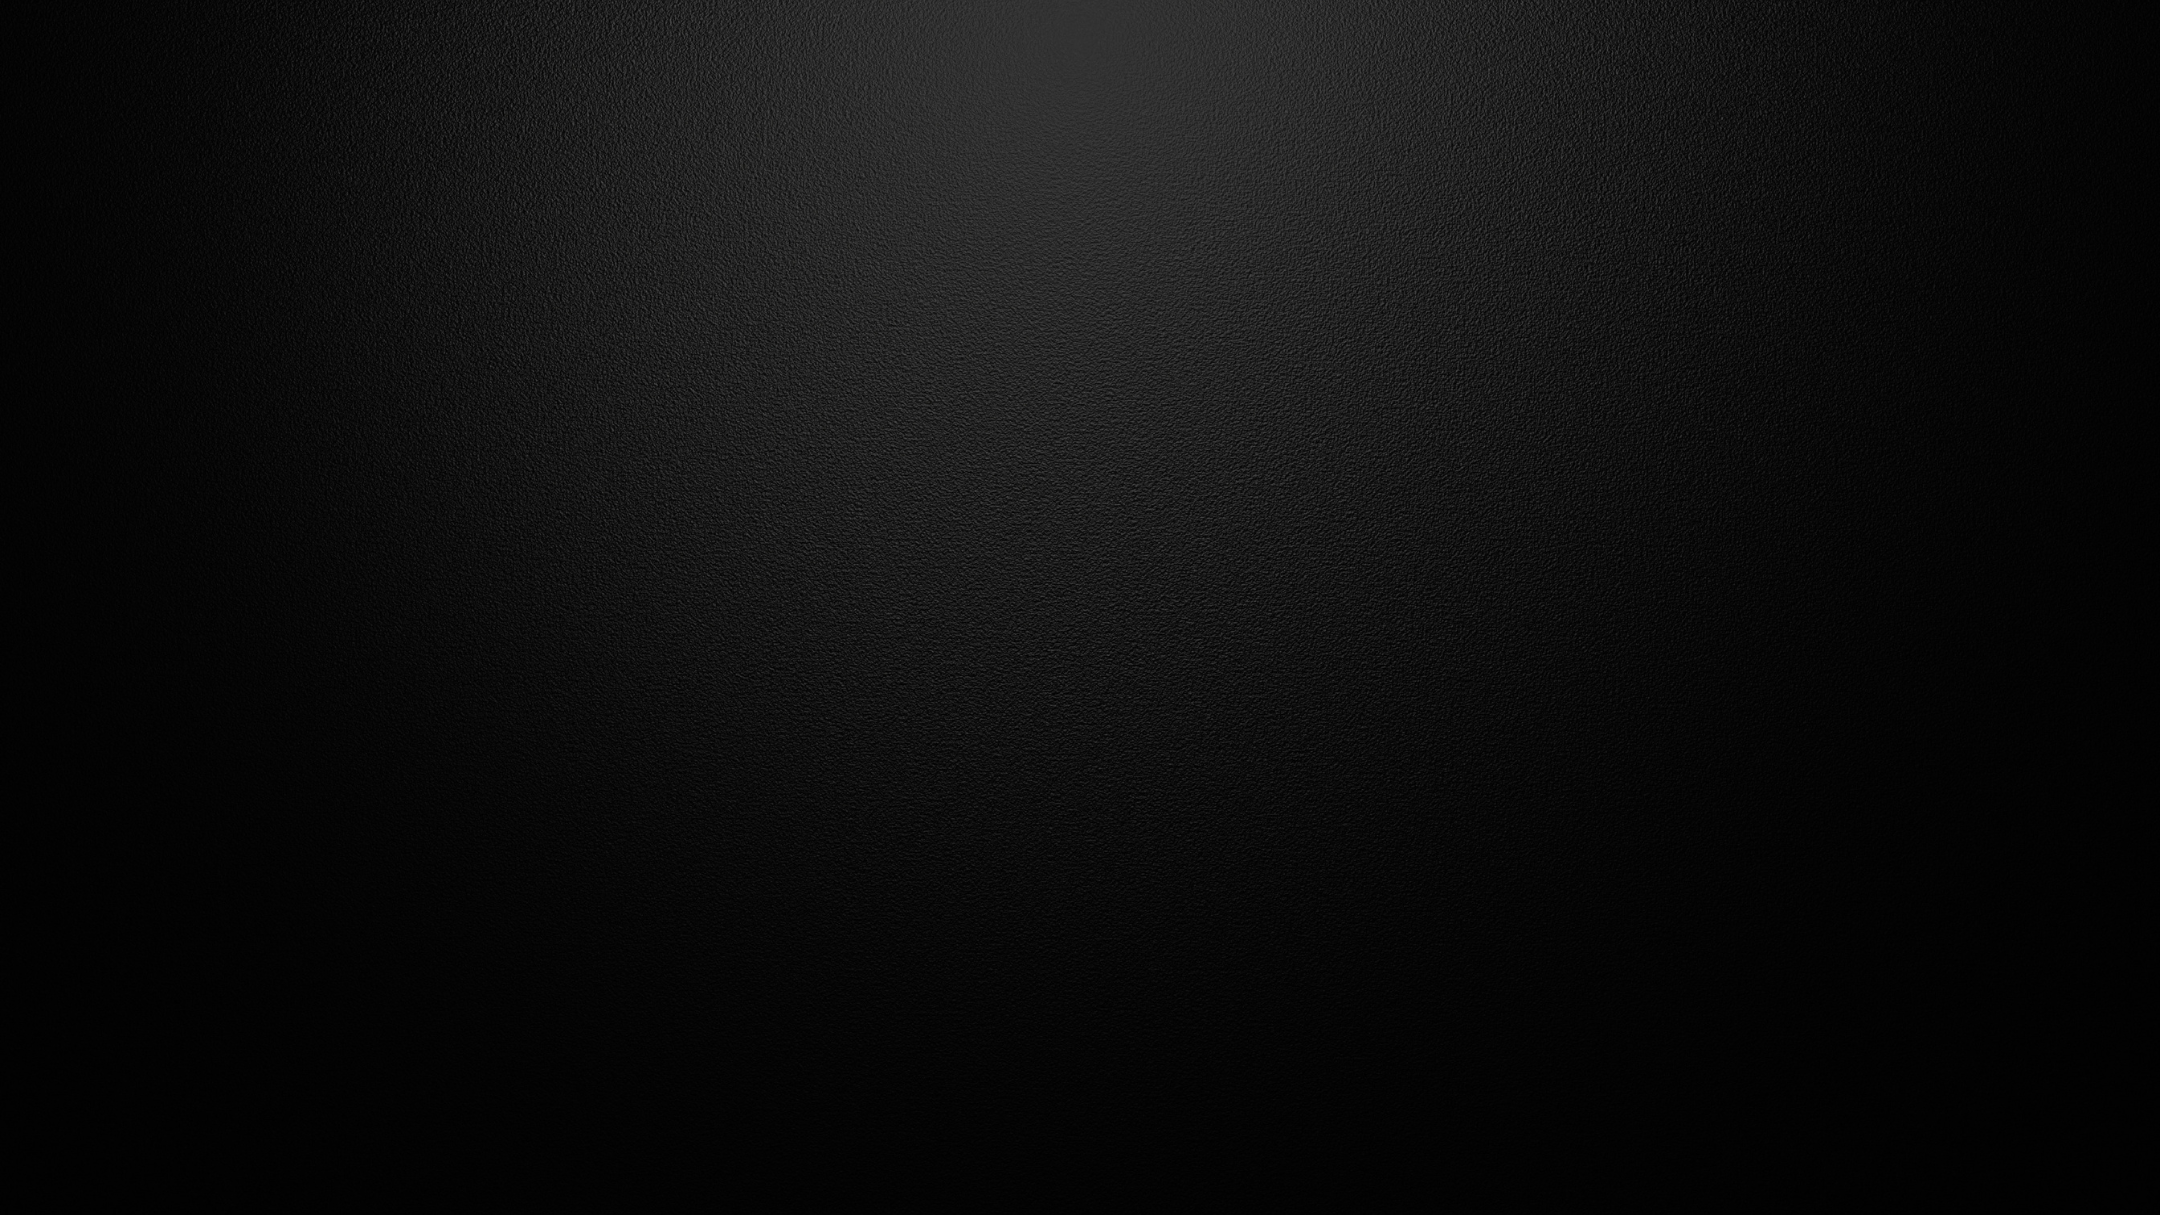
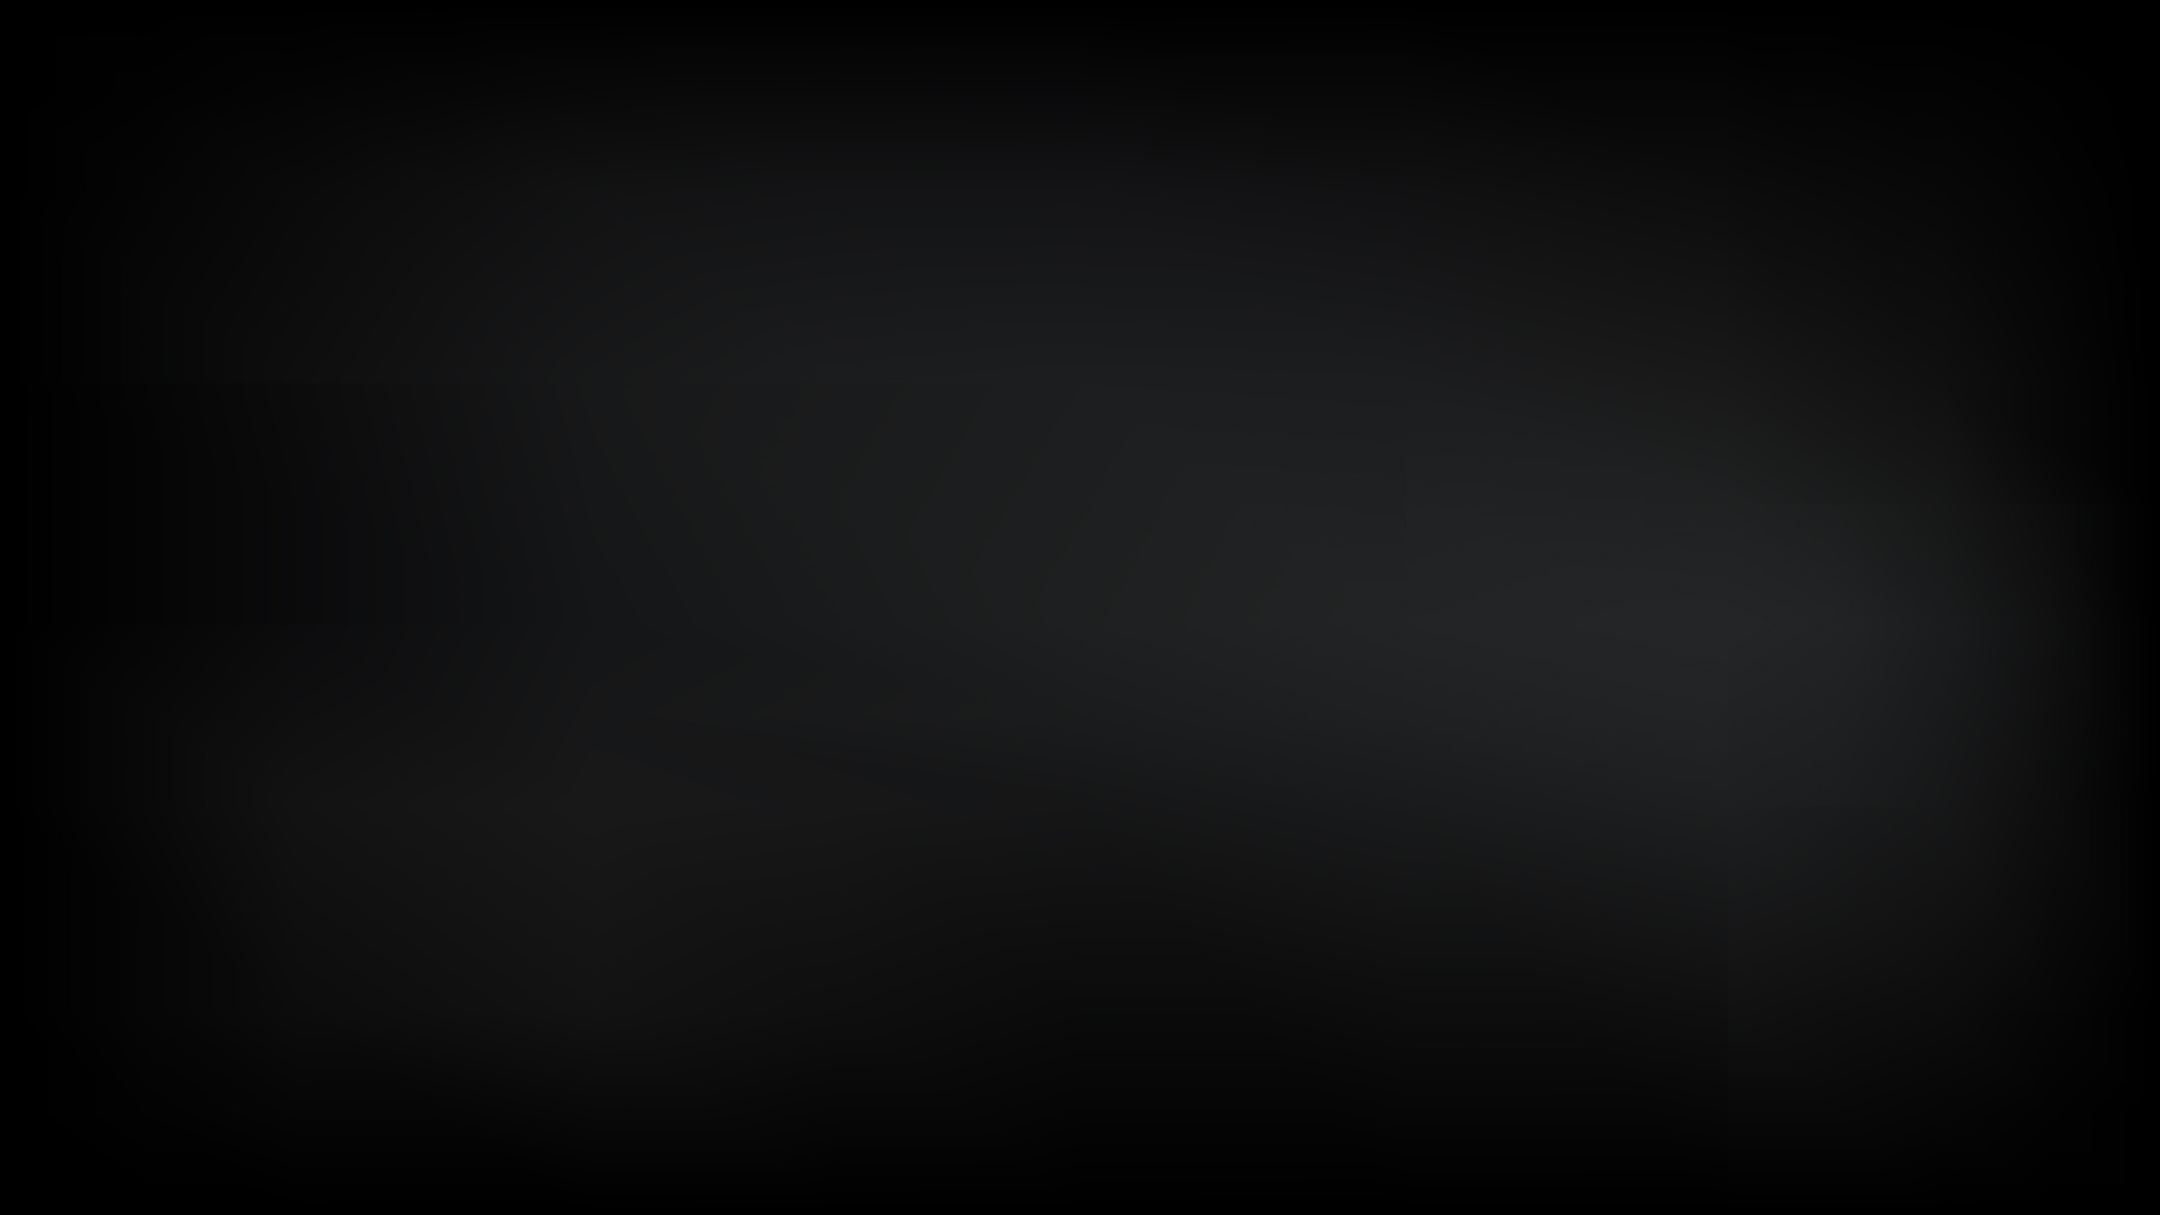
Footer armado, faltan detalles

Changed region(s): [[0.1551, 0.0, 0.8375, 0.3045], [0.5273, 0.3654, 0.9306, 0.7309]]

diff --git a/index.html b/index.html
@@ -18,8 +18,8 @@
         </div>
         <div class="nav-container-links">
             <a href="#quienesSomos">Quienes Somos</a>
-            <a href="#">Servicios</a>
-            <a href="#">Proyectos</a>
+            <a href="#servicios">Servicios</a>
+            <a href="#proyectos">Proyectos</a>
             <a href="#">Contacto</a>
         </div>
     </nav>
@@ -108,40 +108,66 @@
         <div class="caja-servicios" id="cajaServicios">
             <div class="caja uno">
                 <div class="front uno">
-                    <img src="assets/imagenes/body/section_2.2/CREACION_DE_CONTENIDOS.png" alt="">
-                    <h3>Creacion de Contenidos</h3>
+                    <img src="assets/imagenes/body/section_2.2/CREACION_DE_CONTENIDOS.png" alt="" id="cardImagen">
+                    <h3>Creación de Contenidos</h3>
                 </div>
-                <div class="back uno"></div>
+                <div class="back uno">
+                    <p>Completo desarrollo de contenidos siguiendo la línea
+                        editorial del cliente. Los archivos de las acciones son entregados en alta calidad y
+                        resolución para ser difundidos en redes sociales.</p>
+                </div>
             </div>
             <div class="caja dos">
                 <div class="front dos">
-                    <img src="assets/imagenes/body/section_2.2/EXPERIENCIA_DE_MARCA.png" alt="">
+                    <img src="assets/imagenes/body/section_2.2/EXPERIENCIA_DE_MARCA.png" alt="" id="cardImagen">
                     <h3>Experiencia de Marca</h3>
                 </div>
-                <div class="back dos"></div>
+                <div class="back dos">
+                    <p>Llevamos a cabo acciones directas para el público objetivo del
+                        cliente, contadas en “primera persona” por rostros e influencers, con el objetivo de
+                        generar más seguidores y haciendo crecer los likes en las redes sociales.</p>
+                </div>
             </div>
             <div class="caja tres">
                 <div class="front tres">
-                    <img src="assets/imagenes/body/section_2.2/GESTION_DE_PUBLICIDAD_PAGADA.png" alt="">
-                    <h3>Gestion de Publicidad Pagada</h3>
+                    <img src="assets/imagenes/body/section_2.2/GESTION_DE_PUBLICIDAD_PAGADA.png" alt="" id="cardImagen">
+                    <h3>Gestión de Publicidad Pagada</h3>
                 </div>
-                <div class="back tres"></div>
+                <div class="back tres">
+                    <p>Gestionamos, como agencia, campañas publicitarias
+                        pagadas con el objetivo de lograr mejores valores (al valor comercial de la publicidad,
+                        podemos lograr importantes descuentos en las tarifas) con acciones extras para
+                        potenciar la publicidad contratada.</p>
+                </div>
             </div>
             <div class="caja cuatro">
                 <div class="front cuatro">
-                    <img src="assets/imagenes/body/section_2.2/GESTION_DIRECTA.png" alt="">
+                    <img src="assets/imagenes/body/section_2.2/GESTION_DIRECTA.png" alt="" id="cardImagen">
                     <h3>Gestión Directa</h3>
                 </div>
-                <div class="back cuatro"></div>
+                <div class="back cuatro">
+                    <p>Somos el nexo entre los encargados de los medios informativos y el
+                        cliente, comunicándonos con directores, editores, periodistas e influencers, dando a
+                        conocer sus productos y servicios.</p>
+                </div>
             </div>
             <div class="caja cinco">
                 <div class="front cinco">
-                    <img src="assets/imagenes/body/section_2.2/PUBLICACIONES_EN_MEDIOS.png" alt="">
-                    <h3>Publicaciones en medios</h3>
+                    <img src="assets/imagenes/body/section_2.2/PUBLICACIONES_EN_MEDIOS.png" alt="" id="cardImagen">
+                    <h3>Publicaciones en Medios</h3>
                 </div>
-                <div class="back cinco"></div>
+                <div class="back cinco">
+                    <p>Realizamos comunicados de prensa dirigidos a las
+                        campañas acordadas, orientados a posocionarse en diversos medios masivos con
+                        información actualizada, atractiva y de primer nivel.</p>
+                </div>
             </div>
         </div>
+    </div>
+</section>
+<section class="proyectos" id="proyectos">
+    <div class="container-proyectos">
+        
     </div>
 </section>
 <section class="contacto" id="contacto"></section>
@@ -151,7 +177,35 @@
 <!-- ============== -->
 
 <footer>
-
+    <div class="container-footer" id="containerFooter">
+        <div class="caja-footer">
+            <div class="footer footerLeft"></div>
+            <div class="footer footerCenter">
+                <img src="assets/imagenes/footer/logo_principal_spysh.png" alt="" class="logoPrincipalSpysh">
+                <div class="logos-footer" id="logosFooter">
+                    
+                    <a href="https://www.facebook.com/spyshcomunicaciones" target="_blank">
+                        <img src="assets/imagenes/iconos/icono_facebook.png" alt="">
+                    </a>
+                    <a href="mailto:agencia.spyshcomunicaciones@gmail.com">
+                        <img src="assets/imagenes/iconos/icono_correo.png" alt="">
+                    </a>
+                    <a href="https://www.instagram.com/spyshcomunicaciones/" target="_blank">
+                        <img src="assets/imagenes/iconos/icono_instagram.png" alt="">
+                    </a>
+                    <a href="">
+                        <img src="assets/imagenes/iconos/icono_telefono.png" alt="">
+                    </a>
+                    
+                </div>
+            </div>
+            <div class="footer footerRight"></div>
+        </div>
+        <div class="caja-under-footer">
+            <p>@2026 Spysh Comunicaciones spa.
+            <p>Desarrollado por Benjamin Tapia / +56986614003</p>
+        </div>
+    </div>
 </footer>
 
 <!-- Menu -->

diff --git a/css/section2.css b/css/section2.css
@@ -2,7 +2,7 @@
     height: 100vh;
     display: flex;
     flex-direction: column;
-    justify-content: space-between;
+    justify-content: center;
     align-items: center;
     background-image: url(../assets/imagenes/body/section_1/fondo_vista_principal.png);
     background-position: center;
@@ -12,6 +12,7 @@
     margin: 0;
     padding: 0;
     color: var(--color-secondary);
+    text-shadow: 2px 2px 5px black;
 }
 .caja-servicios{
     width: 70%;
@@ -19,7 +20,7 @@
     display: grid;
     grid-template-columns: repeat(6,1fr);
     grid-template-rows: repeat(2,1fr);
-    gap: 20px;
+    gap: 30px;
     padding-bottom: 2%;
 }
 .caja{
@@ -28,6 +29,9 @@
     flex-direction: column;
     justify-content: center;
     align-items: center;
+    position: relative;
+    box-shadow: -10px 10px 10px rgba(15, 15, 15, 0.929);
+    border:2px solid rgba(255, 255, 255, 0.096);
 }
 .caja.uno{
     grid-column: 1/3;
@@ -45,32 +49,60 @@
     grid-column: 4/6;
 }
 .front{
-    background: linear-gradient(
-    360deg,
-    #e12587 1%,
-    #000000 2%
-);
+    
+    background-color: rgb(43, 42, 42);
+    text-shadow: 1px 1px 2px rgba(0, 0, 0, 0.363);
+    color: white;
     display: flex;
     flex-direction: column;
     align-items: center;
-    width: 97%;
-    height: 97%;
-    border-radius: 5px;
-    box-shadow: 2px 2px 10px rgba(0, 0, 0, 0.929);
-    transition: 
-        width .3s ease, 
-        height .3s ease,
-        box-shadow .3s ease;
-}
-.front:hover{
+    justify-content: space-between;
     width: 100%;
     height: 100%;
-    box-shadow: 0px 0px 20px 5px rgba(31, 31, 31, 0.929);
-
+    border-radius: 5px;
+    transition: 
+    width .3s ease, 
+    height .3s ease,
+    box-shadow .3s ease,
+    transform .3s ease;
 }
+
 .front img{
     width: 100%;
 }
 .front h3{
-    color:var(--color-secondary)
+    color:var(--color-secondary);
+    text-shadow: 2px 2px 5px black;
+    text-align: center;
+    position: absolute;
+    bottom: 15px;
+}
+.back{
+    display: flex;
+    flex-direction: column;
+    justify-content: center;
+    align-items: center;
+    border:2px solid rgba(255, 255, 255, 0.315);
+    text-shadow: 2px 2px 5px black;
+    position: absolute;
+    opacity:0;
+    height: 100%;
+    background-color: var(--color-primary);
+    border-radius: 5px ;
+    transform: translateY(-10px);
+    transition:
+    opacity .4s ease,
+    transform .4s ease;
+    
+}
+.back p{
+    font-size: small;
+    text-align: center;
+    color: white;
+    width: 80%;
+}
+.back:hover{
+    opacity:1;
+    transform: translateY(0px);
+    
 }

diff --git a/css/footer.css b/css/footer.css
@@ -1,0 +1,60 @@
+.container-footer{
+    height: 70vh;
+    background-image: url(../assets/imagenes/footer/fondo_footer_1.png);
+    background-size: cover;
+    background-repeat: no-repeat;
+    position: relative;
+    display: flex;
+    justify-content: center;
+}
+.caja-footer{
+    height: 70vh;
+    width: 100%;
+    display: flex;
+    justify-content: center;
+    backdrop-filter: blur(3px);
+}
+.footer{
+    width: 33%;
+}
+.footerCenter{
+    display: flex;
+    flex-direction: column;
+    justify-content: center;
+    align-items: center;
+    text-align: center;
+    position: absolute;
+    bottom: 30%;
+    
+}
+.logoPrincipalSpysh{
+    width: 80%;
+}
+.logos-footer{
+    display: flex;
+    flex-direction: row;
+}
+.logos-footer a{
+    width: 50%;
+}
+.logos-footer img{
+    width: 40%;
+    transform: scale(1);
+    box-shadow: 1px 1px 5px rgba(0, 0, 0, 0.425);
+    border-radius: 50%;
+    transition: transform .3s ease;
+}
+.logos-footer img:hover{
+    transform: scale(1.2);
+    
+}
+.caja-under-footer{
+    position:absolute;
+    color: var(--color-secondary);
+    bottom: 2px;
+    padding: 0;
+    margin: 0;
+    font-size: smaller;
+    text-align: center;
+    height: 25%;
+}

diff --git a/css/section.css b/css/section.css
@@ -11,8 +11,9 @@ section{
 /*=================*/
 
 .vista-principal{
-    background-image: url(../assets/imagenes/body/section_1/fondo_vista_principal_y_sello_spysh.png);
+    background-image: url(../assets/imagenes/body/section_1/fondo_vista_principal_spysh_3.png);
     background-position: center;
+    background-size: cover;
     background-repeat: no-repeat;
 }
 
@@ -22,8 +23,7 @@ section{
 
 
 .quienes-somos{
-    background-image: url(../assets/imagenes/body/section_2/fondo_vista_principal_invertida.png);
-    background-position: center;
+    background-image: url(../assets/imagenes/body/section_1/fondo_vista_principal_2.png);
     background-repeat: no-repeat;
     background-size: cover;
     position:relative;

diff --git a/css/navbar.css b/css/navbar.css
@@ -6,7 +6,7 @@ nav{
     transition: background-color  .3s ease, color .3s ease;
 }
 nav:hover{
-    background-color: rgba(0, 0, 0, 0.721);
+    background-color: rgba(0, 0, 0, 0.808);
 }
 
 /* Logotipo de navbar*/

diff --git a/css/main.css b/css/main.css
@@ -2,6 +2,7 @@
 @import url("section.css");
 @import url(variables.css);
 @import url(section2.css);
+@import url(footer.css);
 
 html {
   scroll-behavior: smooth;
